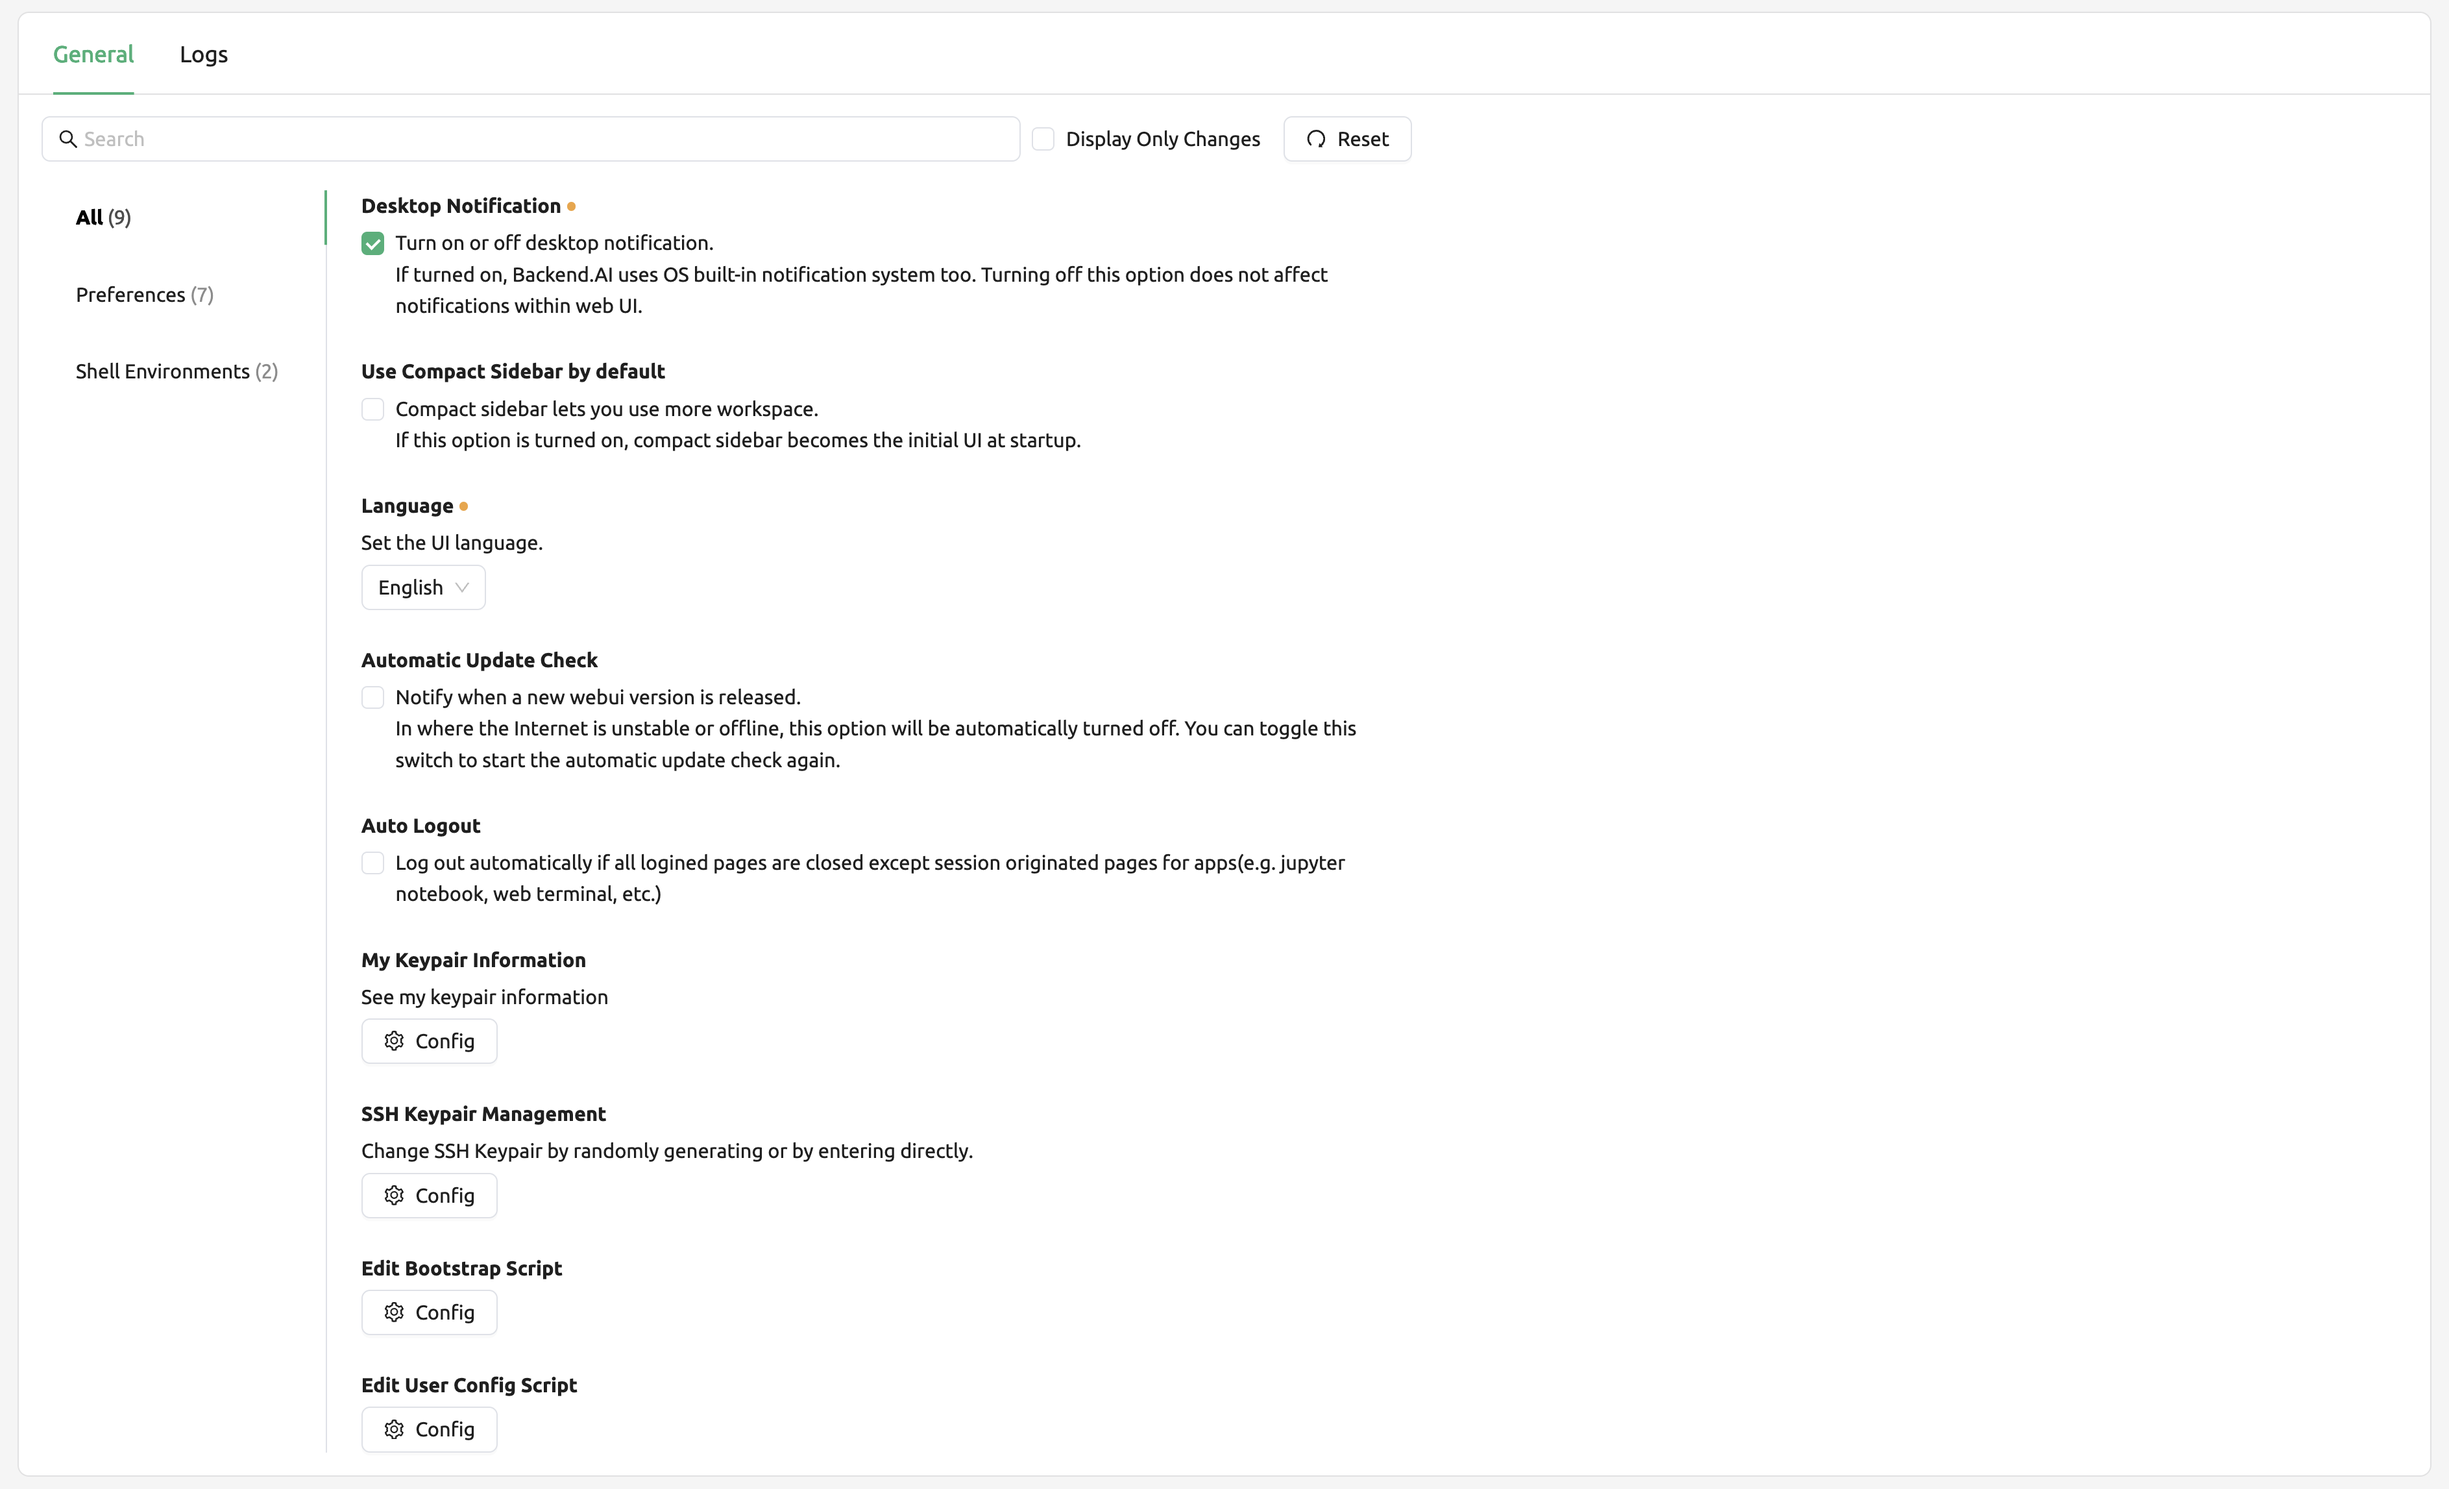
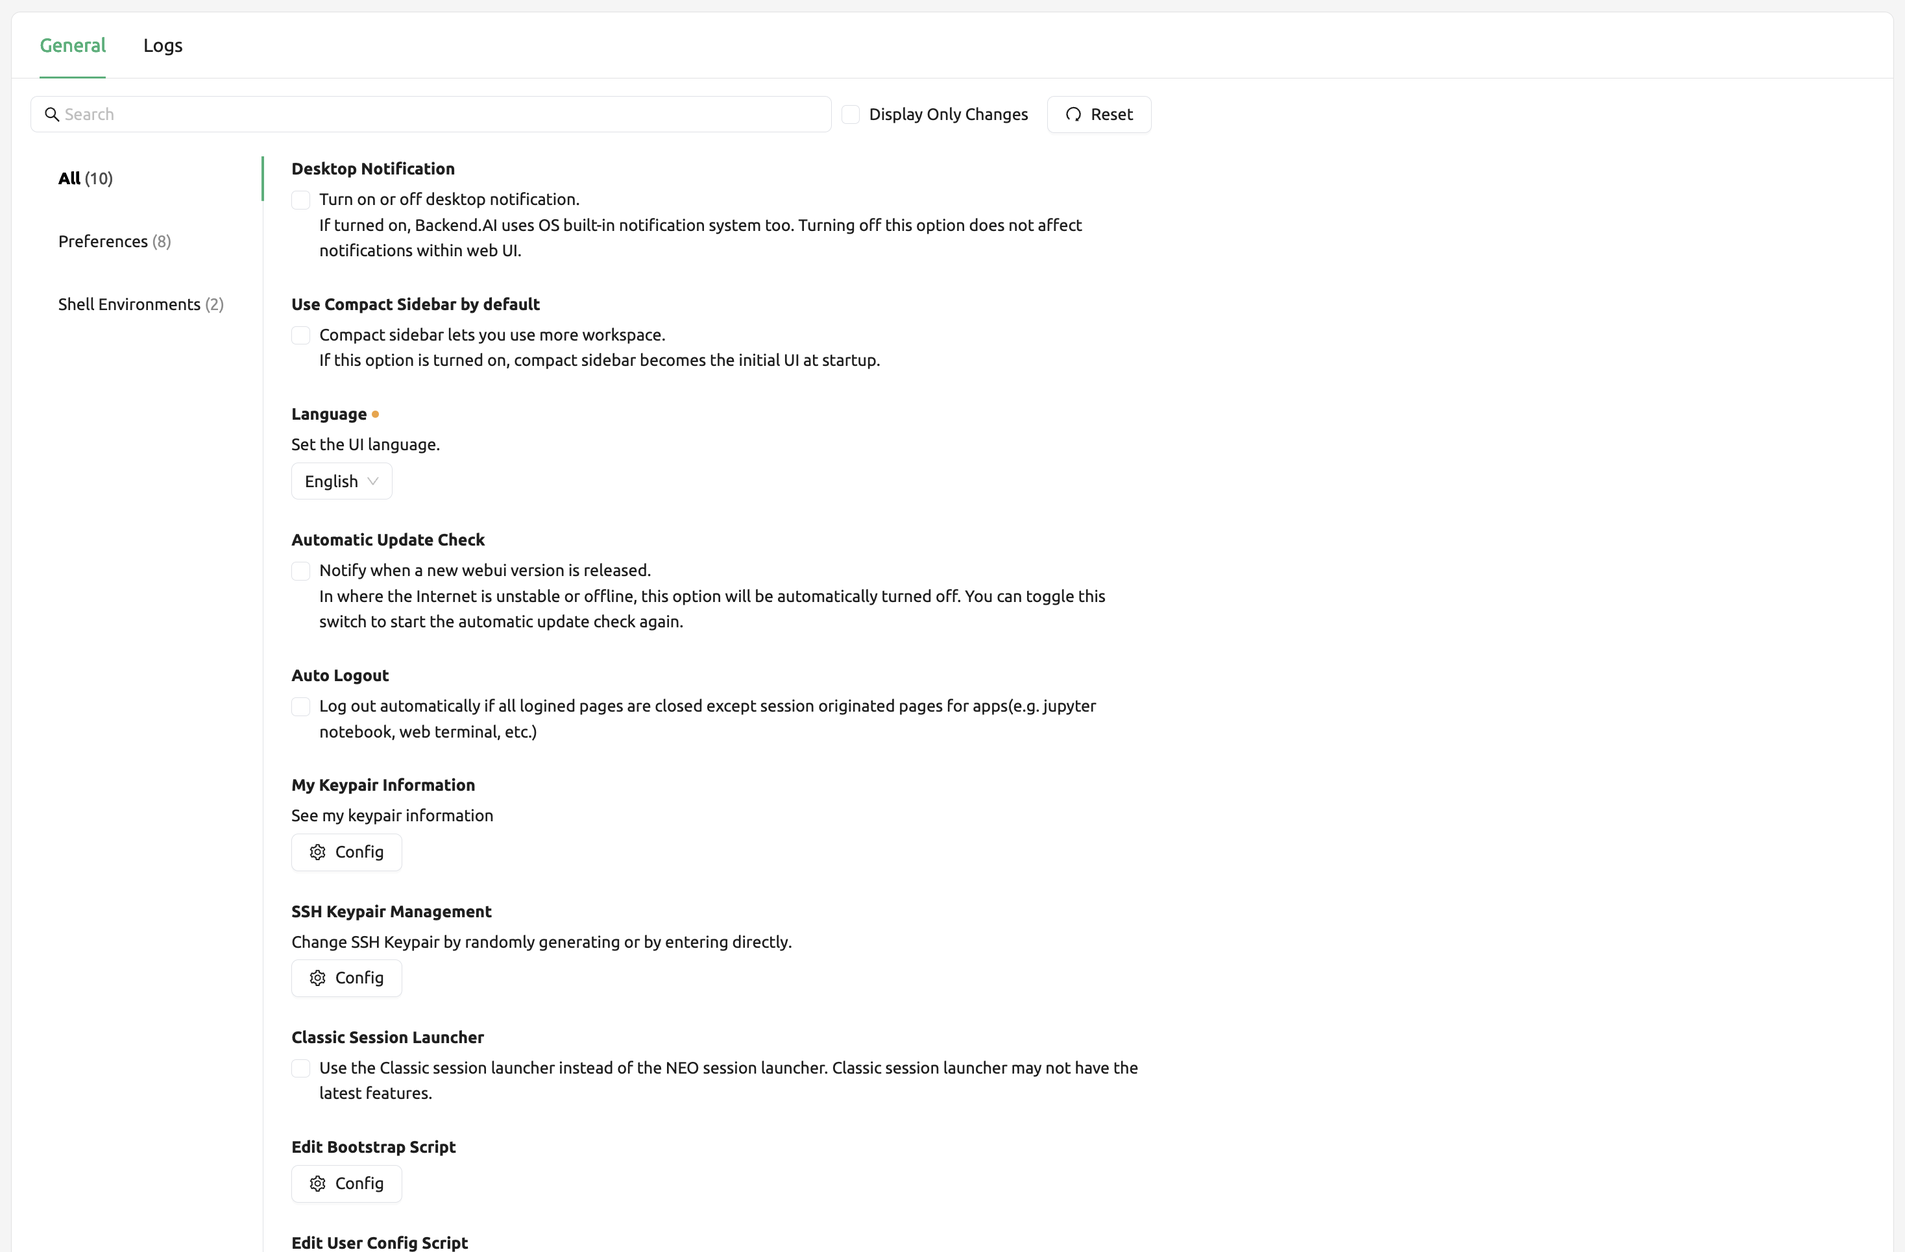
docs: update images and add 'classic session launcher' description

diff --git a/docs/user_settings/user_settings.rst b/docs/user_settings/user_settings.rst
@@ -77,6 +77,30 @@ before the page is refreshed.
    WebUI is open sourced, anyone who willing to make the translation better
    can contribute: https://github.com/lablup/backend.ai-webui.
 
+Automatic Update Check
+^^^^^^^^^^^^^^^^^^^^^^
+
+A notification window pops up when a new WebUI version is detected.
+It works only in an environment where Internet access is available.
+
+Auto logout
+^^^^^^^^^^^
+
+Log out automatically when all Backend.AI WebUI pages are closed except for
+pages created to run apps in session (e.g. jupyter notebook, web terminal,
+etc.).
+
+My Keypair information
+^^^^^^^^^^^^^^^^^^^^^^
+
+Every user has at least one or more keypairs. you can see access and secret keypair by clicking 
+Config button below. Remember that main access keypair is only one.
+
+.. image:: my_keypair_information.png
+   :width: 700
+   :align: center
+   :alt: My Keypair Information
+
 .. _user-ssh-keypair-management:
 
 SSH Keypair Management
@@ -114,31 +138,13 @@ please enter the keys inside, and click ``SAVE`` button. Now you can access to b
    :width: 400
    :align: center
 
+Classic Session Launcher
+^^^^^^^^^^^^^^^^^^^^^^^^
 
-Automatic Update Check
-^^^^^^^^^^^^^^^^^^^^^^
-
-A notification window pops up when a new version of the Web-UI is detected.
-It works only in an environment where Internet access is available.
-
-Auto logout
-^^^^^^^^^^^
-
-Log out automatically when all Backend.AI Web-UI pages are closed except for
-pages created to run apps in session (e.g. jupyter notebook, web terminal,
-etc.).
-
-My Keypair information
-^^^^^^^^^^^^^^^^^^^^^^
-
-Every user has at least one or more keypairs. you can see access and secret keypair by clicking 
-Config button below. Remember that main access keypair is only one.
-
-.. image:: my_keypair_information.png
-   :width: 700
-   :align: center
-   :alt: My Keypair Information
-
+From version 24.09, Backend.AI offers an improved version of the session launcher (NEO) as default.
+If you want to use the classic session launcher, you can turn on this option. 
+For instructions on how to use the classic session launcher, please refer to the following 
+`link <https://webui.docs.backend.ai/en/23.09_a/sessions_all/sessions_all.html>`_.
 
 EDIT BOOTSTRAP SCRIPT
 ^^^^^^^^^^^^^^^^^^^^^^^
